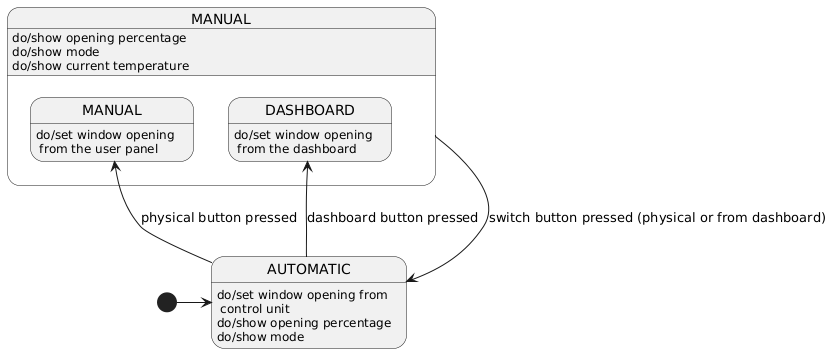
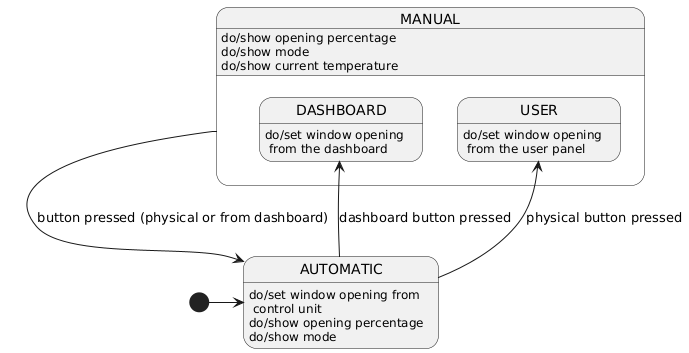
Renamed window mode from manual to user mode

diff --git a/src/window-controller/src/tasks/CommunicationTask.cpp b/src/window-controller/src/tasks/CommunicationTask.cpp
@@ -35,7 +35,7 @@ void CommunicationTask::receiveMessage() {
                 if (this->systemInformations->getMode() == AUTOMATIC_MODE) this->systemInformations->switchMode(DASHBOARD_MODE);
                 else this->systemInformations->switchMode(AUTOMATIC_MODE);
             }
-            if (this->systemInformations->getMode() == MANUAL_MODE && opening != -1) {
+            if (this->systemInformations->getMode() == USER_MODE && opening != -1) {
                 this->systemInformations->switchMode(DASHBOARD_MODE);
                 this->prevOpening = opening;
             }
@@ -57,7 +57,7 @@ void CommunicationTask::sendMessage() {
 
         switch (this->systemInformations->getMode()) {
         case AUTOMATIC_MODE: Serial.println("AUTO"); break;
-        case MANUAL_MODE: Serial.println("MANU"); break;
+        case USER_MODE: Serial.println("MANU"); break;
         case DASHBOARD_MODE: Serial.println("DASH"); break;
         default: break;
         }/* */

diff --git a/src/window-controller/src/tasks/WindowTask.cpp b/src/window-controller/src/tasks/WindowTask.cpp
@@ -7,15 +7,15 @@ WindowTask::WindowTask(UserPanel *userPanel, Window *window, SystemInformations 
     this->prevOpening = -1;
     this->prevManualOpening = -1;
     this->prevTemperature = 100.0;
-    this->prevMode = MANUAL_MODE;
+    this->prevMode = USER_MODE;
 }
 
 void WindowTask::tick() {
     if (this->systemInformations->getMode() == DASHBOARD_MODE && this->prevManualOpening != this->userPanel->getWindowManualOpening()) {
-        this->systemInformations->switchMode(MANUAL_MODE);
+        this->systemInformations->switchMode(USER_MODE);
         this->prevManualOpening = this->userPanel->getWindowManualOpening();
     }
-    this->window->setOpening(this->systemInformations->getMode() == MANUAL_MODE ?
+    this->window->setOpening(this->systemInformations->getMode() == USER_MODE ?
         this->userPanel->getWindowManualOpening() :
         this->systemInformations->getWindowOpeningGoal()
     );

diff --git a/src/window-controller/include/model/SystemInformations.hpp b/src/window-controller/include/model/SystemInformations.hpp
@@ -2,7 +2,7 @@
 #define __SYSTEM_INFORMATIONS__
 
 /// @brief Enumerates the possible modes of the window system.
-typedef enum WindowMode {AUTOMATIC_MODE, MANUAL_MODE, DASHBOARD_MODE} WindowMode;
+typedef enum WindowMode {AUTOMATIC_MODE, USER_MODE, DASHBOARD_MODE} WindowMode;
 
 /// @brief Class that represents the system informations.
 class SystemInformations {

diff --git a/src/window-controller/src/devices/Button.cpp b/src/window-controller/src/devices/Button.cpp
@@ -16,6 +16,6 @@ void Button::attachInterrupt(SystemInformations* systemInformations) {
 }
 
 void Button::buttonHandler() {
-    if (sysInfo->getMode() == AUTOMATIC_MODE) sysInfo->switchMode(MANUAL_MODE);
+    if (sysInfo->getMode() == AUTOMATIC_MODE) sysInfo->switchMode(USER_MODE);
     else sysInfo->switchMode(AUTOMATIC_MODE);
 }
